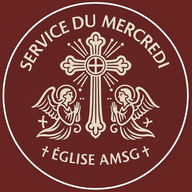
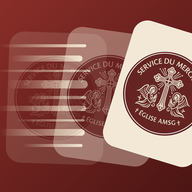
Nouvelle icône : la carte qui part en swipe avec le badge du mercredi

diff --git a/sw.js b/sw.js
@@ -1,7 +1,7 @@
 // Kad'Swipe : la page, les icônes et les polices sont gardées sur le téléphone.
 // À chaque ouverture : affichage immédiat depuis le téléphone, puis mise à jour discrète en arrière-plan
 // (une nouvelle version de l'appli apparaît donc à l'ouverture suivante).
-var CACHE = 'kadswipe-3e9f661d5b';
+var CACHE = 'kadswipe-icone-swipe-1';
 var SHELL = ['./', 'index.html', 'manifest.webmanifest', 'icon-180.png', 'icon-192.png', 'icon-512.png'];
 self.addEventListener('install', function(e){
   e.waitUntil(caches.open(CACHE).then(function(c){ return c.addAll(SHELL); }).then(function(){ return self.skipWaiting(); }));
